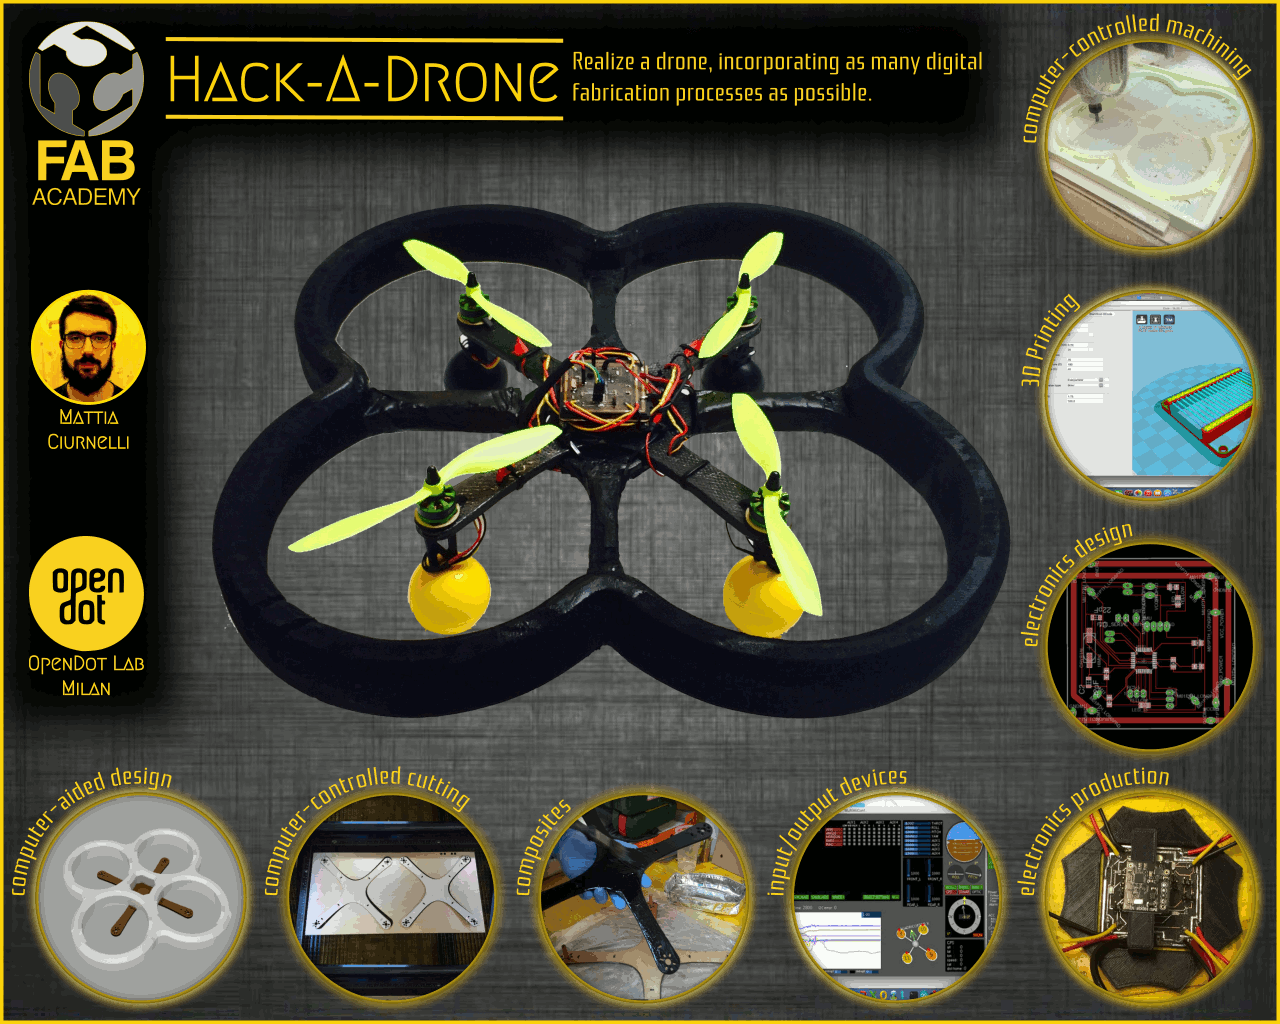
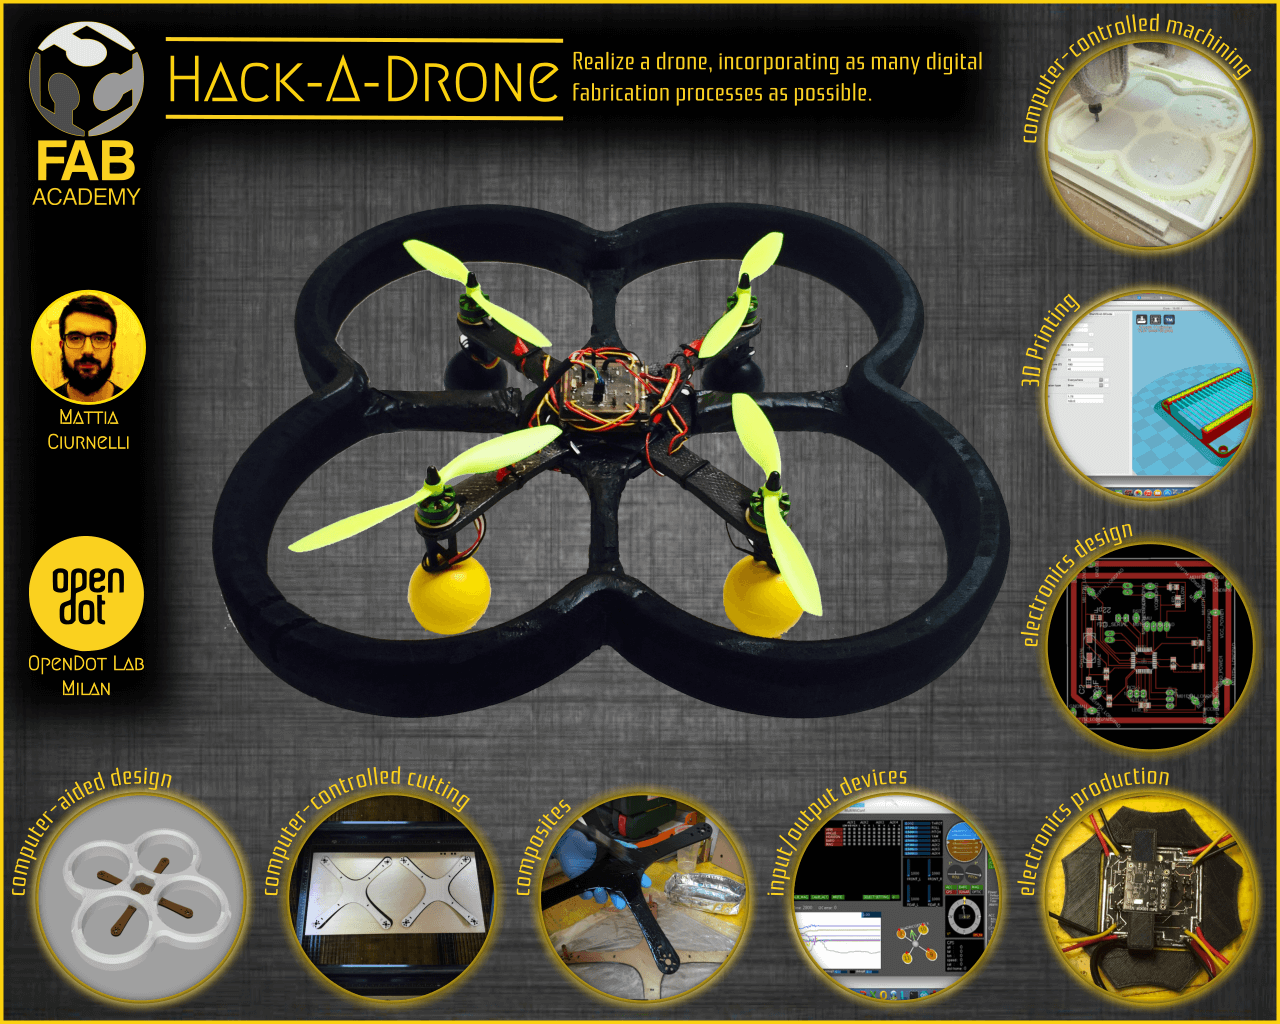
first part on the final project + update png

diff --git a/ciurnelli.mattia/project09.html b/ciurnelli.mattia/project09.html
@@ -86,7 +86,85 @@
     <div class="jumbotron">
           <div class="page-header">
   <h1><u>Final Project:</u><h2>The Frame and Support Parts</h2></h1>
-</div>    
+</div> 
+        <h3>Frame</h3>
+    <p>For the realization of my drone, I decided to change frame size than those of the first prototype of AAVOID made with Daniele: the idea is to use a frame of 33 cm in order to make it easier to use composites materials and the realization of a protection structure.</p> 
+        <p>In rhino've redesigned the layout of the frame, keeping unchanged the holes for the engines and feet.</p>
+        <p class="pic"><img src= "Image/Project04/disegno_telaio_rhino.jpg" class="img-responsive" alt="Responsive image"></p>
+        <p>Ideally this is what I want to achieve:</p>
+        <p class="pic"><img src= "Image/Project04/render-telaio_dettaglio_strati.jpg" class="img-responsive" alt="Responsive image"></p>
+        <p>The idea is to use two layers of birch plywood 1,5mm interspersed with a layer of poliplat 5 mm, put them together using epoxy resin, and subsequently coat the structure using carbon fiber.I would get a frame that is as resistant as possible, but at the same time lightweight.</p>
+        <p>To do this, I exported the layout created in Rhino and I lasered on 2 materials to be used</p>
+         <p class="pic"><img src= "Image/Project04/laser_compensato.jpg" class="img-responsive" alt="Responsive image"></p>
+         <p class="pic"><img src= "Image/Project04/laser_poliplat.jpg" class="img-responsive" alt="Responsive image"></p>
+         <p class="pic"><img src= "Image/Project04/materiali_strati.jpg" class="img-responsive" alt="Responsive image"></p>
+        <p>Once prepared layers, before applying the resin, I have prepared a structure that would allow me to hold on the layers during laying: on a wood panel I applied 4 pins at the holes of the motors on the chassis, so as to then exploit them for laying the various layers.</p><p>Subsequently I have held the support structure with the plastic to prevent it incollasse to the frame.</p>
+        <p class="pic"><img src= "Image/Project04/blocca_layer.jpg" class="img-responsive" alt="Responsive image"></p>
+        <p>After that I placed the first layer to check that the pins have been consistent with the holes</p>
+        <p class="pic"><img src= "Image/Project04/blocca_layer_1strato.jpg" class="img-responsive" alt="Responsive image"></p>
+        <p>Once it established that the holes were right I prepared the epoxy resin, mixing hardener and the resin with the proportion of 1: 2 by weight.</p>
+        <p class="pic"><img src= "Image/Project04/mix_resina.jpg" class="img-responsive" alt="Responsive image"></p>
+        <p>Once finished mixing the two components, I started to apply the resin in each layer</p>
+        <p class="pic"><img src= "Image/Project04/resina_1strato.jpg" class="img-responsive" alt="Responsive image"></p>
+        <p class="pic"><img src= "Image/Project04/resina_2strato.jpg" class="img-responsive" alt="Responsive image"></p>
+        <p class="pic"><img src= "Image/Project04/resina_3strato.jpg" class="img-responsive" alt="Responsive image"></p>
+        <p class="pic"><img src= "Image/Project04/resina_4strato.jpg" class="img-responsive" alt="Responsive image"></p>
+        <p>When finished applying the layers, I covered the frame with a layer of plastic, I closed it with another panel of wood and pressed using clamps.</p>
+        <p class="pic"><img src= "Image/Project04/cover_plastica.jpg" class="img-responsive" alt="Responsive image"></p>
+        <p class="pic"><img src= "Image/Project04/chiusura_blocco.jpg" class="img-responsive" alt="Responsive image"></p>
+        <p class="pic"><img src= "Image/Project04/pressa_blocco.jpg" class="img-responsive" alt="Responsive image"></p>
+        <p>After 24 hours, I opened the mold to check the result</p>
+        <p class="pic"><img src= "Image/Project04/risultato_intermedio.jpg" class="img-responsive" alt="Responsive image"></p>
+        <p class="pic"><img src= "Image/Project04/risultato_intermedio_dettaglio.jpg" class="img-responsive" alt="Responsive image"></p>
+        <p>and once I checked I started to apply, always using the epoxy resin, the strips of carbon fiber</p>
+        <p class="pic"><img src= "Image/Project04/striscia_carbonio.jpg" class="img-responsive" alt="Responsive image"></p>
+        <p>After another 24 hours, I again open the mold and I started to remove the carbon fiber in excess</p>
+        <p class="pic"><img src= "Image/Project04/taglio_parti_eccesso.jpg" class="img-responsive" alt="Responsive image"></p>
+        <p>Then, using a mask of the shape of the original frame and a dremel, I recovered all the holes that had been lost with the application of carbon fiber.</p>
+        <p class="pic"><img src= "Image/Project04/maschera_fori.jpg" class="img-responsive" alt="Responsive image"></p>
+        <p class="pic"><img src= "Image/Project04/fori_finiti.jpg" class="img-responsive" alt="Responsive image"></p>
+        <p>And this is the final result!</p>
+        <p class="pic"><img src= "Image/Project04/risultato_finale_telaio.jpg" class="img-responsive" alt="Responsive image"></p>
+        
+        
+        
+        
+        <h3>Support Parts</h3>
+        <p>As regards the parts of substrate to be printed in 3d, I only modified the parts of the first prototype made with Daniele.</p>
+        <p>First of all, I changed my feet, reaching part that fits into the frame, so as to make it more stable.</p>
+        <p class="pic"><img src= "Image/Project04/foot_drone_rhino.jpg" class="img-responsive" alt="Responsive image"></p>
+        <p>As for the battery compartment instead, I have modified the base of the structure, making internal to the shape of the central part of my frame, and I have set up the holes in the corner for lock them on the frame.</p><p>In addition to the base I modified also the part of the battery compartment, making it become a single piece so as to make it more solid and resistant.</p>
+        <p class="pic"><img src= "Image/Project04/wireframe_slot_batteria.jpg" class="img-responsive" alt="Responsive image"></p>
+        <p class="pic"><img src= "Image/Project04/slot_batteria.jpg" class="img-responsive" alt="Responsive image"></p>
+        
+        <h3>Other Physical Parts</h3>
+        <p>During the first test on the new frame I found a problem: the vibrations. Having a very light frame, with an inner part almost quarry, the vibrations propagate too, coming to affect the IMU and electronics, giving a reading of values totally wrong.</p>
+        <p>To try to dampen the vibration I used some rubber spacers, specifically designed for this, which I found in a hobby store.</p>
+        <p>I designed in Rhino support for engines and for the electronics, so try to isolate them from the frame, and make them less susceptible to vibration.</p>
+        <p class="pic"><img src= "Image/Project04/supporti_antivib.jpg" class="img-responsive" alt="Responsive image"></p>
+        <p>The i have laser cutted them, always using the 1,5mm birch plywood.</p>
+        <p>Firt i mounted the spacers on the support for the engines</p>
+        <p class="pic"><img src= "Image/Project04/gommini_motori.jpg" class="img-responsive" alt="Responsive image"></p>
+        <p>and then i place the support with the spacers below the engines</p>
+        <p class="pic"><img src= "Image/Project04/gommini_motori2.jpg" class="img-responsive" alt="Responsive image"></p>
+        <p>After that I applied the spacers to the support for the electronics: these spacers are much larger than those used for engines and should ensure perfect insulation of the electronic part from possible vibrations of the frame.</p>
+        <p class="pic"><img src= "Image/Project04/gommini_elettronica.jpg" class="img-responsive" alt="Responsive image"></p>
+        <p class="pic"><img src= "Image/Project04/gommini_elettronica2.jpg" class="img-responsive" alt="Responsive image"></p>
+        <p class="pic"><img src= "Image/Project04/gommini_elettronica3.jpg" class="img-responsive" alt="Responsive image"></p>
+        <p>At the top, will then set the flight controller board, while the hole in the center of the support will contain the IMU.</p>
+        <p class="pic"><img src= "Image/Project04/gommini_elettronica4.jpg" class="img-responsive" alt="Responsive image"></p>
+        
+        
+
+        
+        
+        
+        
+        
+        
+        
+        
+        
       
       
       

diff --git a/ciurnelli.mattia/project11.html b/ciurnelli.mattia/project11.html
@@ -87,7 +87,59 @@
           <div class="page-header">
   <h1><u>Final Project:</u><h2>The Protection Structure</h2></h1>
 </div>
+        <p>To realize the protection structure I decided to use the polystyrene and mill both the front and the back to get a 3D object.</p>
+        <p>Then i started to draw in Rhino the structure, taking into account the distances to be kept by the propellers and the joints to secure it to the frame.</p>
+        <p class="pic"><img src= "Image/Project04/gabbia1.jpg" class="img-responsive" alt="Responsive image"></p>
+        <p class="pic"><img src= "Image/Project04/gabbia2.jpg" class="img-responsive" alt="Responsive image"></p>
+        <p class="pic"><img src= "Image/Project04/gabbia3.jpg" class="img-responsive" alt="Responsive image"></p>
+        <p class="pic"><img src= "Image/Project04/gabbia4.jpg" class="img-responsive" alt="Responsive image"></p>
+        <p>once finished, I exported the model as .stl before being milled.</p>
+        <p>First, I milled a square of 60x60 cm in a wooden panel, in order to have an accurate reference to be able to turn the piece of polystyrene during the milling process.</p>
+        <p class="pic"><img src= "Image/Project04/fresatura_incastro.jpg" class="img-responsive" alt="Responsive image"></p>
+        <p>After that, I imported the .stl file into Partworks3D, set the dimension of the material and added the tab to keep the milled piece attached to the external material</p>
+        <p class="pic"><img src= "Image/Project04/screen1.jpg" class="img-responsive" alt="Responsive image"></p>
+        
+        <p class="pic"><img src= "Image/Project04/screen2.jpg" class="img-responsive" alt="Responsive image"></p>
+        <p>Then I created the toolphat for roughing, using a half-inch tip</p>
+        <p class="pic"><img src= "Image/Project04/screen3sgrossatura.jpg" class="img-responsive" alt="Responsive image"></p>
+        <p>And the toolphat for finishing, using a quarter inch ball head tip</p>
+        <p class="pic"><img src= "Image/Project04/screen4finitura.jpg" class="img-responsive" alt="Responsive image"></p>
+        <p>So in the end I obtained 4 toolpath: 1 for roughing and 1 finishing for the upper and 1 for roughing and 1 finishing for the lower part.</p>
+        <p>Once exported the toolpath and placed the piece of polystyrene in the space, I started milling, starting from roughing the bottom</p>
+        <p class="pic"><img src= "Image/Project04/fresatura_sgrossatura_bottom.jpg" class="img-responsive" alt="Responsive image"></p>
+        <p class="pic"><img src= "Image/Project04/fresatura_sgrossatura_bottom2.jpg" class="img-responsive" alt="Responsive image"></p>
+        <p>Once finish the roughing i started with the bottom's finishing</p>
+        <p class="pic"><img src= "Image/Project04/fresatura_finitura_bottom.jpg" class="img-responsive" alt="Responsive image"></p>
+        <p class="pic"><img src= "Image/Project04/fresatura_finitura_bottom_dettaglio.jpg" class="img-responsive" alt="Responsive image"></p>
+        <p>Once finished with the bottom, i flipped the polystyrene piece and starting with the roughing of the top</p>
+        <p class="pic"><img src= "Image/Project04/fresatura_sgrossatura_top.jpg" class="img-responsive" alt="Responsive image"></p>
+        <p class="pic"><img src= "Image/Project04/fresatura_sgrossatura_top2.jpg" class="img-responsive" alt="Responsive image"></p>
+        <p>and at last the finishing of the top</p>
+        <p class="pic"><img src= "Image/Project04/fresatura_finitura_top.jpg" class="img-responsive" alt="Responsive image"></p>
+        <p>This is the final result of the structure after the milling process</p>
+        <p class="pic"><img src= "Image/Project04/fresatura_final_top.jpg" class="img-responsive" alt="Responsive image"></p>
+        <p class="pic"><img src= "Image/Project04/fresatura_final_bottom.jpg" class="img-responsive" alt="Responsive image"></p>
+        <p>After cleaning the piece, I used epoxy resin and a light fabric on the support arms, so as to give greater rigidity and resistance to the structure.</p>
+        <p class="pic"><img src= "Image/Project04/gabbia_composite.jpg" class="img-responsive" alt="Responsive image"></p>
+        <p class="pic"><img src= "Image/Project04/gabbia_composite2.jpg" class="img-responsive" alt="Responsive image"></p>
+        <p class="pic"><img src= "Image/Project04/gabbia_composite3.jpg" class="img-responsive" alt="Responsive image"></p>
+        <p>Once the resin has dried, I removed the parts of excess tissue</p>
+        <p class="pic"><img src= "Image/Project04/gabbia_composite_final.jpg" class="img-responsive" alt="Responsive image"></p>
+        <p>and after I started painting the structure, using a water-based paint so as not to melt the polystyrene</p>
+        <p class="pic"><img src= "Image/Project04/gabbia_color.jpg" class="img-responsive" alt="Responsive image"></p>
+        
 
+        
+        
+        
+        
+        
+        
+        
+        
+        
+        
+        
      </div>
     <!-- End of your content -->
 

diff --git a/ciurnelli.mattia/index.html b/ciurnelli.mattia/index.html
@@ -119,11 +119,7 @@
         </div>
         <div class="jumbotron">
         <h1><u>Final Project</u></h1>
-            <p>As final project i will collaborate with <a href="http://fabacademy.org/archives/2015/eu/students/ingrassia.daniele/index.html">Daniele Ingrassia</a> in making <span class=highlights>AAVOID</span> : <span class=highlights>A</span>utonomous <span class=highlights>A</span>ssembly a<span class=highlights>VOI</span>ding <span class=highlights>D</span>rone.</p>
-            <p>The drone, as the name implies, we would be able to cooperate with other drones and that can avoid obstacles.
-            The realization of this project covers a bit 'all the areas covered during the Fab Academy: we have a division of labor in order to demonstrate both what we have learned during these months in all areas, while always considering our capabilities and our strengths.</p>
-                <p>The project is very ambitious and represents a great challenge for me.</p>
-            <p class="pic"><img src="Image/Project03/AAVOIDv1.jpg" class="img-responsive" alt="Responsive image"></p>
+            <img src="presentation.png" width=100%><br><br>
             <p><a class="btn btn-primary" href="project03.html" role="button">View more &raquo;</a></p>
     
         </div>

diff --git a/ciurnelli.mattia/project-menu.html b/ciurnelli.mattia/project-menu.html
@@ -6,7 +6,7 @@
 <li><a href="project06.html">03.2 Electronics: Power Distribution Board <span class="statusok">OK</span></a></li>
 <li><a href="project07.html">03.3 Teamwork: AAVOID v1.0 <span class="statusok">OK</span></a></li>
 <li><a href="project08.html">03.4 Forking the project <span class="statusok">OK</span></a></li>
-<li><a href="project09.html">04.1 Final Project: The Frame and Support Parts <span class="statuswip">WIP</span></a></li>
+<li><a href="project09.html">04.1 Final Project: The Frame and Support Parts <span class="statusok">OK</span></a></li>
 <li><a href="project10.html">04.2 Final Project: The Flight Controller Board <span class="statuswip">WIP</span></a></li>
-<li><a href="project11.html">04.3 Final Project: The Protection Structure <span class="statuswip">WIP</span></a></li>
+<li><a href="project11.html">04.3 Final Project: The Protection Structure <span class="statusok">OK</span></a></li>
 <li><a href="project12.html">04.4 Final Project: The Final Result <span class="statuswip">WIP</span></a></li>
